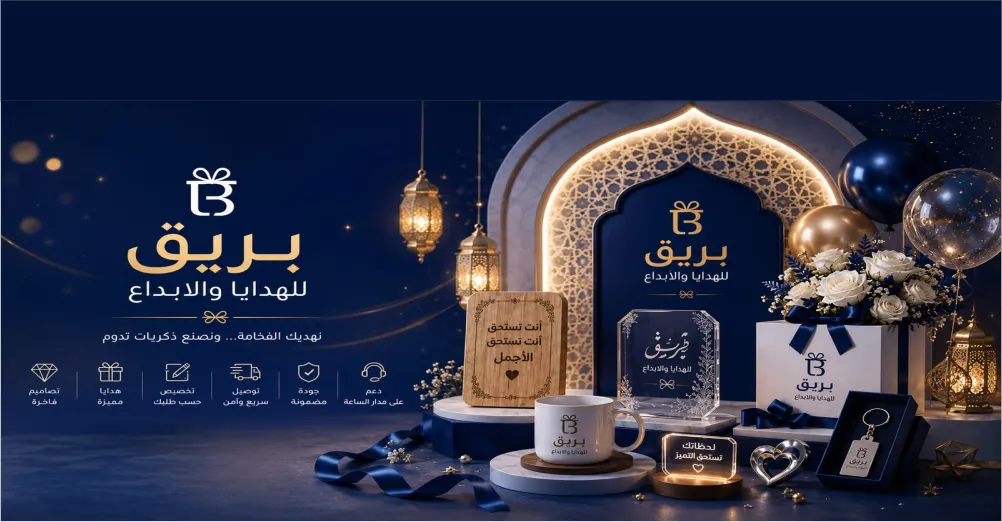
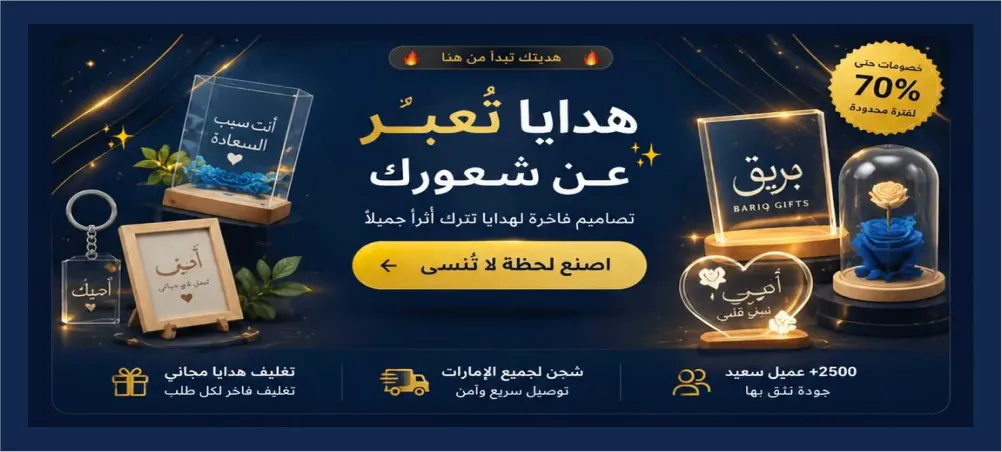
Update site

diff --git a/index.html b/index.html
@@ -111,9 +111,9 @@
   <noscript>
 </noscript>
   <link rel="manifest" href="/manifest.json">
-  <link rel="icon" type="image/svg+xml" href="/assets/favicon.svg">
-  <link rel="icon" type="image/png" href="/assets/logo.png">
-  <link rel="apple-touch-icon" href="/assets/icon.png">
+  <link rel="icon" type="image/png" sizes="96x96" href="/assets/icon-96.png?v=site-icon-20260727">
+  <link rel="icon" type="image/png" sizes="202x202" href="/assets/icon.png?v=site-icon-20260727">
+  <link rel="apple-touch-icon" sizes="202x202" href="/assets/icon.png?v=site-icon-20260727">
   <meta name="apple-mobile-web-app-title" content="بريق للهدايا">
   <meta name="apple-mobile-web-app-status-bar-style" content="black-translucent">
   <meta name="theme-color" content="#152546">
@@ -456,24 +456,8 @@ height="0" width="0" style="display:none;visibility:hidden"></iframe></noscript>
 
 <section class="animated-promo-banner mobile-promo-banner" aria-label="بنر بريق للهاتف">
   <a href="/offers" style="display:block;width:100%;height:100%;text-decoration:none">
-    <div class="banner-inner fsh-inner">
-      <div class="fsh-badge">
-        <span class="fsh-badge-fire">🔥</span>
-        <span class="home-brand-rotator" aria-label="بريق للهدايا والابداع" data-i18n-title="بريق للهدايا والابداع">
-          <span data-i18n="بريـــق">بريـــق</span>
-          <span data-i18n="هديتك تبدأ من هنا">هديتك تبدأ من هنا</span>
-        </span>
-        <span class="fsh-badge-fire">🔥</span>
-      </div>
-      <h1 class="fsh-title">
-        <span class="fire-big">🔥</span>
-        <span data-i18n="هدايا">هدايا</span> <span class="gold" data-i18n="تُعبّر">تُعبّر</span> <span data-i18n="عن شعورك">عن شعورك</span>
-        <span class="fire-big">🔥</span>
-      </h1>
-      <div class="fsh-discount-row">
-        <div class="fsh-discount-pill" data-i18n="اصنع لحظة لا تُنسى">اصنع لحظة لا تُنسى</div>
-        <span class="fsh-discount-label" data-i18n="مع بريــــــــــــق ✨">مع بريــــــــــــق ✨</span>
-      </div>
+    <div class="banner-inner fsh-inner mobile-promo-image-wrap">
+      <img src="/assets/home/صور الغلاف/1.webp?v=mobile-cover-20260727a" class="mobile-promo-image" alt="بنر بريق" fetchpriority="high" loading="eager" decoding="async" width="1000" height="200">
     </div>
   </a>
 </section>
@@ -862,7 +846,7 @@ body.home-immersive-header .dp-card .dp-badge{position:absolute!important;left:5
 body.home-immersive-header .daily-picks-section+.trust-bar{margin-top:0!important}
 @media(min-width:900px){
   body.home-immersive-header .daily-picks-section{height:172px!important;min-height:172px!important}
-  body.home-immersive-header .daily-picks-section+.trust-bar{margin-top:6px!important}
+  body.home-immersive-header .daily-picks-section+.trust-bar{margin-top:10px!important}
 }
 @media(max-width:899px){
   html,body{height:auto!important;min-height:100%!important;max-width:100%!important;overflow-x:clip!important}
@@ -873,10 +857,11 @@ body.home-immersive-header .daily-picks-section+.trust-bar{margin-top:0!importan
   body.home-immersive-header .page{max-width:100%!important;overflow-x:clip!important;overflow-y:visible!important}
   body.home-immersive-header main.main{width:97%!important;max-width:97%!important;margin:64px auto 50px!important;background:#fff!important}
   body.home-immersive-header .desktop-promo-banner{display:none!important}
-  body.home-immersive-header .mobile-promo-banner{display:block!important;width:100vw!important;max-width:100vw!important;height:151px!important;min-height:151px!important;margin:-1px calc(50% - 50vw) 12px!important;border-radius:0!important;box-shadow:none!important;background:linear-gradient(135deg,#152546 0%,#152546 42%,#1a1a2e 100%)!important;position:relative;right:auto!important;left:auto!important;transform:none!important;overflow:hidden}
+  body.home-immersive-header .mobile-promo-banner{display:block!important;width:100vw!important;max-width:100vw!important;height:165px!important;min-height:165px!important;margin:-1px calc(50% - 50vw) 12px!important;border-radius:0!important;box-shadow:none!important;background:#152546 url('/assets/home/صور الغلاف/1.webp?v=mobile-cover-20260727a') center/100% 100% no-repeat!important;position:relative;right:auto!important;left:auto!important;transform:none!important;overflow:hidden}
   html[dir="ltr"] body.home-immersive-header .mobile-promo-banner{right:auto!important;left:auto!important;transform:none!important}
-  body.home-immersive-header .mobile-promo-banner::before{content:'';position:absolute;inset:0;background-image:radial-gradient(circle at 20% 50%,rgba(212,175,55,.12) 0%,transparent 50%),radial-gradient(circle at 80% 20%,rgba(212,175,55,.08) 0%,transparent 40%),radial-gradient(circle at 60% 80%,rgba(255,120,0,.07) 0%,transparent 35%);pointer-events:none}
-  body.home-immersive-header .mobile-promo-banner .fsh-inner{position:relative;z-index:1;max-width:900px;height:100%;margin:0 auto;padding:18px 12px 16px;display:flex;flex-direction:column;align-items:center;justify-content:center;gap:10px;text-align:center;box-sizing:border-box}
+  body.home-immersive-header .mobile-promo-banner::before{display:none!important}
+  body.home-immersive-header .mobile-promo-banner .fsh-inner{position:relative;z-index:1;max-width:none!important;width:100%!important;height:100%;margin:0 auto;padding:0!important;display:block!important;text-align:center;box-sizing:border-box}
+  body.home-immersive-header .mobile-promo-banner .mobile-promo-image{display:block!important;width:100%!important;height:100%!important;object-fit:fill!important;object-position:center!important;border-radius:0!important;opacity:0!important}
   body.home-immersive-header .mobile-promo-banner .fsh-badge{display:inline-flex;align-items:center;gap:8px;background:rgba(212,175,55,.18);border:1px solid rgba(212,175,55,.45);border-radius:999px;padding:5px 15px;font-size:.78rem;font-weight:800;color:#D4AF37;letter-spacing:.02em;text-transform:none;line-height:1.55}
   body.home-immersive-header .mobile-promo-banner .fsh-badge-fire{font-size:1rem;animation:badgeFire 1.2s ease-in-out infinite}
   @keyframes badgeFire{0%,100%{transform:scale(1)}50%{transform:scale(1.3) rotate(5deg)}}
@@ -895,7 +880,7 @@ body.home-immersive-header .daily-picks-section+.trust-bar{margin-top:0!importan
   body.home-immersive-header *{font-family:Arial,Tahoma,"Segoe UI Emoji","Segoe UI Symbol",sans-serif!important}
   body.home-immersive-header main.main{touch-action:pan-y pinch-zoom!important}
   body.home-immersive-header .categories a{font-family:"Segoe UI Emoji","Segoe UI Symbol","Apple Color Emoji","Noto Color Emoji",Arial,Tahoma,sans-serif!important}
-  body.home-immersive-header .daily-picks-section+.trust-bar{margin-top:6px!important}
+  body.home-immersive-header .daily-picks-section+.trust-bar{margin-top:10px!important}
   body.home-immersive-header .product-card{contain:none!important;content-visibility:visible!important;transform:none!important;will-change:auto!important;padding-bottom:4px!important;box-sizing:border-box!important;overflow:visible!important;touch-action:pan-y pinch-zoom!important}
   body.home-immersive-header .product-card *{touch-action:pan-y pinch-zoom!important}
   body.home-immersive-header .product-card:active,
@@ -1265,30 +1250,6 @@ body.home-immersive-header .daily-picks-section+.trust-bar{margin-top:0!importan
       }).catch(function(){});
     });
   }
-
-  // توليد favicon ديناميكي: لوجو أبيض على خلفية كحلية
-  (function() {
-    const img = new Image();
-    img.onload = function() {
-      const c = document.createElement('canvas');
-      c.width = 64; c.height = 64;
-      const ctx = c.getContext('2d');
-      // خلفية كحلية مدوّرة بدون padding
-      ctx.fillStyle = '#152546';
-      ctx.beginPath();
-      ctx.roundRect(0, 0, 64, 64, 10);
-      ctx.fill();
-      // اللوجو الأبيض يملأ كامل المساحة (بدون مسافات)
-      ctx.drawImage(img, 0, 0, 64, 64);
-      // تطبيق الـ favicon
-      let link = document.querySelector('link[rel="icon"][type="image/png"]');
-      if (!link) { link = document.createElement('link'); link.rel = 'icon'; document.head.appendChild(link); }
-      link.type = 'image/png';
-      link.href = c.toDataURL('image/png');
-    };
-    img.onerror = function() {};
-    img.src = 'assets/icon.png';
-  })();
 </script>
 </body>
 </html>

diff --git a/product.html b/product.html
@@ -13,7 +13,7 @@ j=d.createElement(s),dl=l!='dataLayer'?'&l='+l:'';j.async=true;j.src=
   <script src="/java/auth-reset.js"></script>
   <title data-i18n=" تفاصيل المنتج - Bariq">تفاصيل المنتج - Bariq</title>
   <meta name="theme-color" content="#007bff">
-  <link rel="apple-touch-icon" href="/assets/icon.png">
+  <link rel="apple-touch-icon" sizes="202x202" href="/assets/icon.png?v=site-icon-20260727">
   <link rel="manifest" href="/manifest.json">
   <meta name="mobile-web-app-capable" content="yes">
   <meta name="apple-mobile-web-app-capable" content="yes">
@@ -44,8 +44,9 @@ j=d.createElement(s),dl=l!='dataLayer'?'&l='+l:'';j.async=true;j.src=
   <meta property="og:url" content="https://bariq.com">
   <meta property="og:type" content="website">
   <style>*{box-sizing:border-box;margin:0}html,body{height:100%}body{background:#152546;font-family:'Cairo',Arial,sans-serif;padding-top:env(safe-area-inset-top)}.page{min-height:100dvh;display:flex;flex-direction:column}main{width:70%;margin:70px auto 50px;display:flex;flex-direction:column;justify-content:center}header,.main-header{background-color:#152546;padding-top:env(safe-area-inset-top)}.main-header{position:fixed;inset:0 0 auto 0;z-index:1000;width:100%;padding:7px 0;box-shadow:0 2px 4px rgba(0,0,0,.1)}.header-content{width:70%;margin:0 auto;display:flex;align-items:center;justify-content:space-between;flex-wrap:wrap;min-height:50px}.logo img{height:36px}.search-container{flex:1;display:flex;align-items:center;background:#fff;border-radius:20px;margin:0 15px;max-width:1100px;height:38px;padding:0 10px}.search-container input{border:none;flex:1;outline:none;padding:6px 10px;font-size:16px;background:transparent}img,video{max-width:100%;height:auto;border-radius:3px}.dp-img{width:100%;aspect-ratio:1;object-fit:cover;border-radius:7px;background:#f0f0f0}@media(max-width:899px){.main-header .dropdown,.main-header .cart{display:none!important}body{padding-bottom:calc(65px + env(safe-area-inset-bottom))}}#productDetail:empty,#product-main:empty,.product-page-body main:empty{min-height:500px}</style>
-  <link rel="icon" type="image/png" href="/assets/logo.png">
-  <link rel="shortcut icon" href="/assets/logo.png">
+  <link rel="icon" type="image/png" sizes="96x96" href="/assets/icon-96.png?v=site-icon-20260727">
+  <link rel="icon" type="image/png" sizes="202x202" href="/assets/icon.png?v=site-icon-20260727">
+  <link rel="shortcut icon" type="image/png" href="/assets/icon-96.png?v=site-icon-20260727">
   <link rel="stylesheet" href="/style/style.css?v=128">
   <link rel="stylesheet" href="/mobile-nav-bar/styles.css?v=apple-liquid-20260726e" media="(max-width: 899px)">
   <style>html,body,.page{background:#fff!important}</style>
@@ -63,7 +64,7 @@ j=d.createElement(s),dl=l!='dataLayer'?'&l='+l:'';j.async=true;j.src=
     "offers": { "@type": "Offer", "priceCurrency": "AED" }
   }
   </script>
-  <link rel="apple-touch-icon" href="/assets/icon.png">
+  <link rel="apple-touch-icon" sizes="202x202" href="/assets/icon.png?v=site-icon-20260727">
 </head>
 <body class="product-page-body">
 <!-- Google Tag Manager (noscript) -->

diff --git a/affiliate.html b/affiliate.html
@@ -13,7 +13,9 @@ j=d.createElement(s),dl=l!='dataLayer'?'&l='+l:'';j.async=true;j.src=
   <script src="/java/auth-reset.js"></script>
   <title data-i18n="التسويق بالعمولة - Bariq">التسويق بالعمولة - Bariq</title>
   <meta name="theme-color" content="#007bff">
-  <link rel="apple-touch-icon" href="/assets/icon.png">
+  <link rel="icon" type="image/png" sizes="96x96" href="/assets/icon-96.png?v=site-icon-20260727">
+  <link rel="icon" type="image/png" sizes="202x202" href="/assets/icon.png?v=site-icon-20260727">
+  <link rel="apple-touch-icon" sizes="202x202" href="/assets/icon.png?v=site-icon-20260727">
   <link rel="manifest" href="/manifest.json">
   <meta name="mobile-web-app-capable" content="yes">
   <meta name="apple-mobile-web-app-capable" content="yes">
@@ -53,7 +55,7 @@ j=d.createElement(s),dl=l!='dataLayer'?'&l='+l:'';j.async=true;j.src=
   <meta name="twitter:card" content="summary_large_image">
   <meta name="twitter:site" content="@bariqgifts">
   <meta name="twitter:title" content="التسويق بالعمولة - Bariq">
-  <link rel="apple-touch-icon" href="/assets/icon.png">
+  <link rel="apple-touch-icon" sizes="202x202" href="/assets/icon.png?v=site-icon-20260727">
 </head>
 <body>
 <!-- Google Tag Manager (noscript) -->

diff --git a/policy.html b/policy.html
@@ -13,7 +13,9 @@ j=d.createElement(s),dl=l!='dataLayer'?'&l='+l:'';j.async=true;j.src=
   <script src="/java/auth-reset.js"></script>
   <title data-i18n="سياسة الخصوصية - Bariq">سياسة الخصوصية - Bariq</title>
   <meta name="theme-color" content="#007bff">
-  <link rel="apple-touch-icon" href="/assets/icon.png">
+  <link rel="icon" type="image/png" sizes="96x96" href="/assets/icon-96.png?v=site-icon-20260727">
+  <link rel="icon" type="image/png" sizes="202x202" href="/assets/icon.png?v=site-icon-20260727">
+  <link rel="apple-touch-icon" sizes="202x202" href="/assets/icon.png?v=site-icon-20260727">
   <link rel="manifest" href="/manifest.json">
   <meta name="mobile-web-app-capable" content="yes">
   <meta name="apple-mobile-web-app-capable" content="yes">
@@ -53,7 +55,7 @@ j=d.createElement(s),dl=l!='dataLayer'?'&l='+l:'';j.async=true;j.src=
   <meta name="twitter:card" content="summary_large_image">
   <meta name="twitter:site" content="@bariqgifts">
   <meta name="twitter:title" content="سياسة الخصوصية - Bariq">
-  <link rel="apple-touch-icon" href="/assets/icon.png">
+  <link rel="apple-touch-icon" sizes="202x202" href="/assets/icon.png?v=site-icon-20260727">
 </head>
 <body>
 <!-- Google Tag Manager (noscript) -->

diff --git a/categories.html b/categories.html
@@ -36,7 +36,9 @@ j=d.createElement(s),dl=l!='dataLayer'?'&l='+l:'';j.async=true;j.src=
   <script src="/java/auth-reset.js"></script>
   <title data-i18n="جميع الفئات - Bariq">جميع الفئات - Bariq</title>
   <meta name="theme-color" content="#007bff">
-  <link rel="apple-touch-icon" href="/assets/icon.png">
+  <link rel="icon" type="image/png" sizes="96x96" href="/assets/icon-96.png?v=site-icon-20260727">
+  <link rel="icon" type="image/png" sizes="202x202" href="/assets/icon.png?v=site-icon-20260727">
+  <link rel="apple-touch-icon" sizes="202x202" href="/assets/icon.png?v=site-icon-20260727">
   <link rel="manifest" href="/manifest.json">
   <meta name="mobile-web-app-capable" content="yes">
   <meta name="apple-mobile-web-app-capable" content="yes">
@@ -87,7 +89,7 @@ j=d.createElement(s),dl=l!='dataLayer'?'&l='+l:'';j.async=true;j.src=
   <meta name="twitter:card" content="summary_large_image">
   <meta name="twitter:site" content="@bariqgifts">
   <meta name="twitter:title" content="جميع الفئات - Bariq">
-  <link rel="apple-touch-icon" href="/assets/icon.png">
+  <link rel="apple-touch-icon" sizes="202x202" href="/assets/icon.png?v=site-icon-20260727">
 </head>
 <body>
 <!-- Google Tag Manager (noscript) -->

diff --git a/checkout.html b/checkout.html
@@ -13,7 +13,9 @@ j=d.createElement(s),dl=l!='dataLayer'?'&l='+l:'';j.async=true;j.src=
   <script src="/java/auth-reset.js"></script>
   <title data-i18n="صفحة الدفع - Bariq">صفحة الدفع - Bariq</title>
   <meta name="theme-color" content="#007bff">
-  <link rel="apple-touch-icon" href="/assets/icon.png">
+  <link rel="icon" type="image/png" sizes="96x96" href="/assets/icon-96.png?v=site-icon-20260727">
+  <link rel="icon" type="image/png" sizes="202x202" href="/assets/icon.png?v=site-icon-20260727">
+  <link rel="apple-touch-icon" sizes="202x202" href="/assets/icon.png?v=site-icon-20260727">
   <link rel="manifest" href="/manifest.json">
   <meta name="mobile-web-app-capable" content="yes">
   <meta name="apple-mobile-web-app-capable" content="yes">
@@ -53,7 +55,7 @@ j=d.createElement(s),dl=l!='dataLayer'?'&l='+l:'';j.async=true;j.src=
   <meta name="twitter:card" content="summary_large_image">
   <meta name="twitter:site" content="@bariqgifts">
   <meta name="twitter:title" content="صفحة الدفع - Bariq">
-  <link rel="apple-touch-icon" href="/assets/icon.png">
+  <link rel="apple-touch-icon" sizes="202x202" href="/assets/icon.png?v=site-icon-20260727">
 </head>
 <body>
 <!-- Google Tag Manager (noscript) -->

diff --git a/login.html b/login.html
@@ -12,9 +12,9 @@ j=d.createElement(s),dl=l!='dataLayer'?'&l='+l:'';j.async=true;j.src=
   <meta charset="UTF-8" />
   <script src="/java/auth-reset.js?v=20260720v2"></script>
   <title>تسجيل الدخول - Bariq</title>
-  <link rel="icon" type="image/svg+xml" href="/assets/favicon.svg">
-  <link rel="icon" type="image/png" href="/assets/logo.png">
-  <link rel="apple-touch-icon" href="/assets/icon.png">
+  <link rel="icon" type="image/png" sizes="96x96" href="/assets/icon-96.png?v=site-icon-20260727">
+  <link rel="icon" type="image/png" sizes="202x202" href="/assets/icon.png?v=site-icon-20260727">
+  <link rel="apple-touch-icon" sizes="202x202" href="/assets/icon.png?v=site-icon-20260727">
   <meta name="viewport" content="width=device-width, initial-scale=1.0, maximum-scale=1.0">
   <style>@media(max-width:899px){.main-header .dropdown,.main-header .cart{display:none!important}}</style>
   <link rel="stylesheet" href="/style/style.css?v=128" />

diff --git a/Cart.html b/Cart.html
@@ -13,9 +13,9 @@ j=d.createElement(s),dl=l!='dataLayer'?'&l='+l:'';j.async=true;j.src=
   <script src="/java/auth-reset.js"></script>
   <title data-i18n="عربة التسوق- Bariq">عربة التسوق- Bariq</title>
     <link rel="manifest" href="/manifest.json">
-  <link rel="icon" type="image/svg+xml" href="/assets/favicon.svg">
-  <link rel="icon" type="image/png" href="/assets/logo.png">
-  <link rel="apple-touch-icon" href="/assets/icon.png">
+  <link rel="icon" type="image/png" sizes="96x96" href="/assets/icon-96.png?v=site-icon-20260727">
+  <link rel="icon" type="image/png" sizes="202x202" href="/assets/icon.png?v=site-icon-20260727">
+  <link rel="apple-touch-icon" sizes="202x202" href="/assets/icon.png?v=site-icon-20260727">
   <meta name="apple-mobile-web-app-title" content="بريق للهدايا">
   <meta name="apple-mobile-web-app-status-bar-style" content="black-translucent">
   <meta name="theme-color" content="#152546">

diff --git a/account.html b/account.html
@@ -13,9 +13,9 @@ j=d.createElement(s),dl=l!='dataLayer'?'&l='+l:'';j.async=true;j.src=
   <script src="/java/auth-reset.js"></script>
   <title data-i18n="الحساب- Bariq">حسابي- Bariq</title>
     <link rel="manifest" href="/manifest.json">
-  <link rel="icon" type="image/svg+xml" href="/assets/favicon.svg">
-  <link rel="icon" type="image/png" href="/assets/logo.png">
-  <link rel="apple-touch-icon" href="/assets/icon.png">
+  <link rel="icon" type="image/png" sizes="96x96" href="/assets/icon-96.png?v=site-icon-20260727">
+  <link rel="icon" type="image/png" sizes="202x202" href="/assets/icon.png?v=site-icon-20260727">
+  <link rel="apple-touch-icon" sizes="202x202" href="/assets/icon.png?v=site-icon-20260727">
   <meta name="apple-mobile-web-app-title" content="بريق للهدايا">
   <meta name="apple-mobile-web-app-status-bar-style" content="black-translucent">
   <meta name="theme-color" content="#152546">

diff --git a/offers.html b/offers.html
@@ -12,9 +12,9 @@ j=d.createElement(s),dl=l!='dataLayer'?'&l='+l:'';j.async=true;j.src=
   <meta charset="UTF-8" />
   <script src="/java/auth-reset.js"></script>
   <link rel="manifest" href="/manifest.json">
-  <link rel="icon" type="image/svg+xml" href="/assets/favicon.svg">
-  <link rel="icon" type="image/png" href="/assets/logo.png">
-  <link rel="apple-touch-icon" href="/assets/icon.png">
+  <link rel="icon" type="image/png" sizes="96x96" href="/assets/icon-96.png?v=site-icon-20260727">
+  <link rel="icon" type="image/png" sizes="202x202" href="/assets/icon.png?v=site-icon-20260727">
+  <link rel="apple-touch-icon" sizes="202x202" href="/assets/icon.png?v=site-icon-20260727">
   <title data-i18n="عروض حصرية - Bariq">عروض حصرية 🔥 - Bariq</title>
   <meta name="theme-color" content="#152546">
   <meta name="mobile-web-app-capable" content="yes">

diff --git a/admin-reports.html b/admin-reports.html
@@ -8,8 +8,9 @@
   <meta name="apple-mobile-web-app-title" content="تقارير Bariq">
   <meta name="apple-mobile-web-app-status-bar-style" content="black-translucent">
   <link rel="manifest" href="/admin-reports-manifest.json">
-  <link rel="apple-touch-icon" href="/assets/icon.png">
-  <link rel="icon" href="/assets/icon.png">
+  <link rel="icon" type="image/png" sizes="96x96" href="/assets/icon-96.png?v=site-icon-20260727">
+  <link rel="icon" type="image/png" sizes="202x202" href="/assets/icon.png?v=site-icon-20260727">
+  <link rel="apple-touch-icon" sizes="202x202" href="/assets/icon.png?v=site-icon-20260727">
   <title>تقارير Bariq</title>
   <style>
     :root{--navy:#152546;--ink:#1b2437;--gold:#d4af37;--line:#e7eaf1;--muted:#667085;--soft:#f6f8fc;--green:#14804a;--red:#c03535;--blue:#2359a8}

diff --git a/admin.html b/admin.html
@@ -4,9 +4,9 @@
 <meta charset="UTF-8" />
 <script src="/java/auth-reset.js"></script>
   <link rel="manifest" href="/manifest.json">
-  <link rel="icon" type="image/svg+xml" href="/assets/favicon.svg">
-  <link rel="icon" type="image/png" href="/assets/logo.png">
-  <link rel="apple-touch-icon" href="/assets/icon.png">
+  <link rel="icon" type="image/png" sizes="96x96" href="/assets/icon-96.png?v=site-icon-20260727">
+  <link rel="icon" type="image/png" sizes="202x202" href="/assets/icon.png?v=site-icon-20260727">
+  <link rel="apple-touch-icon" sizes="202x202" href="/assets/icon.png?v=site-icon-20260727">
 <meta name="viewport" content="width=device-width, initial-scale=1.0" />
   <script>
   (function(){
